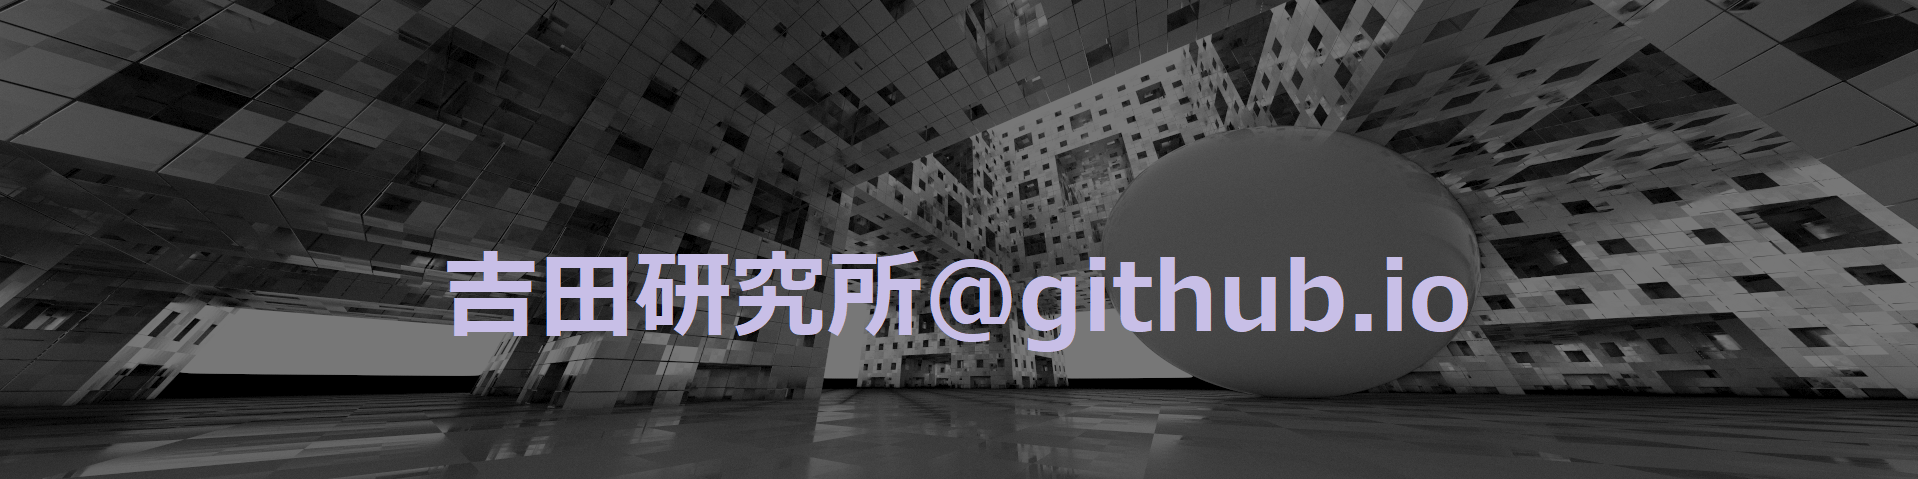
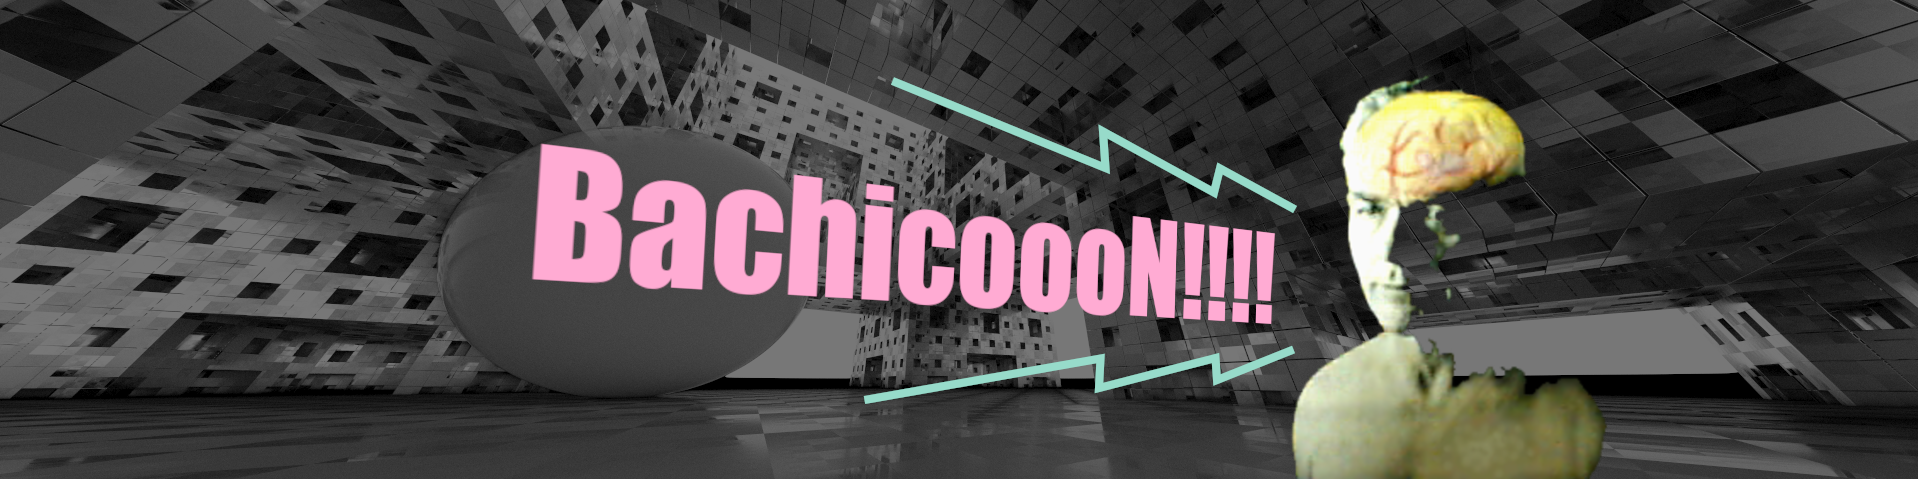
.

diff --git a/index.html b/index.html
@@ -3,29 +3,31 @@
 
 <html xmlns="http://www.w3.org/1999/xhtml" xml:lang="ja" lang="ja">
 	<head prefix="og: http://ogp.me/ns# fb: http://ogp.me/ns/fb# article: http://ogp.me/ns/article#">
+		<meta name="viewport" content="width=device-width,initial-scale=1"/>
+		<meta http-equiv="Content-Type" content="text/html; charset=utf-8"/>
+		<title>
+			BachicoooN!!!!
+		</title>
+		<link rel="stylesheet" type="text/css" href="style.css"/>
+
 		<!-- OGP -->
-		<meta property="og:title" content="吉田研究所@github.io"/>
+		<meta property="og:title" content="BachicoooN!!!!"/>
 		<meta property="og:image" content="https://yosshin4004.github.io/title.png"/>
-		<meta property="og:description" content="ファミベのよっしんの個人サイト"/>
+		<meta property="og:site_name" content="BachicooooN!!!!" />
 
 		<!-- OGP for twitter -->
 		<meta name="twitter:card" content="summary"/>
 		<meta name="twitter:site" content="@yosshin4004"/>
-
-		<meta name="viewport" content="width=device-width,initial-scale=1"/>
-		<meta http-equiv="Content-Type" content="text/html; charset=utf-8"/>
-		<title>
-			吉田研究所@github.io
-		</title>
-		<link rel="stylesheet" type="text/css" href="style.css"/>
 	</head>
 
 	<body>
         <div class="main">
 			<center>
 				<br/>
-				<img src="title.png" alt="TITLE" border="0" width="90%" height="90%"/>
-				<br/><br/>
+				<img src="title.png" alt="TITLE" border="0" width="100%" height="100%"/>
+				<br/>
+				バチコ バチコォ ズバチコォォォォン!!!!
+				<br/>
 				<b>
 					Since 1998/02/23
 				</b>

diff --git a/famibe/my_prods/index.html b/famibe/my_prods/index.html
@@ -14,7 +14,7 @@
 		<!-- OGP -->
 		<meta property="og:title" content="ファミリーベーシック上で過去にリリースしたゲーム"/>
 		<meta property="og:image" content="https://yosshin4004.github.io/title.png"/>
-		<meta property="og:site_name" content="吉田研究所@github.io"/>
+		<meta property="og:site_name" content="BachicoooN!!!!" />
 
 		<!-- OGP for twitter -->
 		<meta name="twitter:card" content="summary"/>

diff --git a/memo/serial_handle/index.html b/memo/serial_handle/index.html
@@ -14,7 +14,7 @@
 		<!-- OGP -->
 		<meta property="og:title" content="シリアルハンドルによる不正メモリアクセス回避"/>
 		<meta property="og:image" content="https://yosshin4004.github.io/title.png"/>
-		<meta property="og:site_name" content="吉田研究所@github.io"/>
+		<meta property="og:site_name" content="BachicoooN!!!!" />
 
 		<!-- OGP for twitter -->
 		<meta name="twitter:card" content="summary"/>

diff --git a/famibe/overview/index.html b/famibe/overview/index.html
@@ -14,7 +14,7 @@
 		<!-- OGP -->
 		<meta property="og:title" content="ファミリーベーシックと80年代当時の状況まとめ"/>
 		<meta property="og:image" content="https://yosshin4004.github.io/title.png"/>
-		<meta property="og:site_name" content="吉田研究所@github.io"/>
+		<meta property="og:site_name" content="BachicoooN!!!!" />
 
 		<!-- OGP for twitter -->
 		<meta name="twitter:card" content="summary"/>

diff --git a/memo/shader_math/index.html b/memo/shader_math/index.html
@@ -14,7 +14,7 @@
 		<!-- OGP -->
 		<meta property="og:title" content="シェーダ言語ライクなベクトル演算の C++ 実装"/>
 		<meta property="og:image" content="https://yosshin4004.github.io/title.png"/>
-		<meta property="og:site_name" content="吉田研究所@github.io"/>
+		<meta property="og:site_name" content="BachicoooN!!!!" />
 
 		<!-- OGP for twitter -->
 		<meta name="twitter:card" content="summary"/>

diff --git a/mod/formats/index.html b/mod/formats/index.html
@@ -14,7 +14,7 @@
 		<!-- OGP -->
 		<meta property="og:title" content="MOD/S3M/XM/IT 各形式のフォーマットについて"/>
 		<meta property="og:image" content="https://yosshin4004.github.io/title.png"/>
-		<meta property="og:site_name" content="吉田研究所@github.io"/>
+		<meta property="og:site_name" content="BachicoooN!!!!" />
 
 		<!-- OGP for twitter -->
 		<meta name="twitter:card" content="summary"/>

diff --git a/famibe/develop/index.html b/famibe/develop/index.html
@@ -14,7 +14,7 @@
 		<!-- OGP -->
 		<meta property="og:title" content="ファミリーベーシック上でのゲーム制作"/>
 		<meta property="og:image" content="https://yosshin4004.github.io/title.png"/>
-		<meta property="og:site_name" content="吉田研究所@github.io"/>
+		<meta property="og:site_name" content="BachicoooN!!!!" />
 
 		<!-- OGP for twitter -->
 		<meta name="twitter:card" content="summary"/>

diff --git a/mod/overview/index.html b/mod/overview/index.html
@@ -14,7 +14,7 @@
 		<!-- OGP -->
 		<meta property="og:title" content="ミュージックフォーマット MOD について"/>
 		<meta property="og:image" content="https://yosshin4004.github.io/title.png"/>
-		<meta property="og:site_name" content="吉田研究所@github.io"/>
+		<meta property="og:site_name" content="BachicoooN!!!!" />
 
 		<!-- OGP for twitter -->
 		<meta name="twitter:card" content="summary"/>

diff --git a/memo/software_sprite/index.html b/memo/software_sprite/index.html
@@ -14,7 +14,7 @@
 		<!-- OGP -->
 		<meta property="og:title" content="高速なソフトウェアスプライトの実装"/>
 		<meta property="og:image" content="https://yosshin4004.github.io/title.png"/>
-		<meta property="og:site_name" content="吉田研究所@github.io"/>
+		<meta property="og:site_name" content="BachicoooN!!!!" />
 
 		<!-- OGP for twitter -->
 		<meta name="twitter:card" content="summary"/>

diff --git a/mod/ft2/index.html b/mod/ft2/index.html
@@ -14,7 +14,7 @@
 		<!-- OGP -->
 		<meta property="og:title" content="Fast Tracker II の日本語ドキュメント"/>
 		<meta property="og:image" content="https://yosshin4004.github.io/title.png"/>
-		<meta property="og:site_name" content="吉田研究所@github.io"/>
+		<meta property="og:site_name" content="BachicoooN!!!!" />
 
 		<!-- OGP for twitter -->
 		<meta name="twitter:card" content="summary"/>

diff --git a/demoscene/japanese_scene/index.html b/demoscene/japanese_scene/index.html
@@ -14,7 +14,7 @@
 		<!-- OGP -->
 		<meta property="og:title" content="デモシーン発生以前の日本の状況"/>
 		<meta property="og:image" content="https://yosshin4004.github.io/title.png"/>
-		<meta property="og:site_name" content="吉田研究所@github.io"/>
+		<meta property="og:site_name" content="BachicoooN!!!!" />
 
 		<!-- OGP for twitter -->
 		<meta name="twitter:card" content="summary"/>

diff --git a/mod/commands/index.html b/mod/commands/index.html
@@ -14,7 +14,7 @@
 		<!-- OGP -->
 		<meta property="og:title" content="MOD/S3M/XM/IT 各形式のコマンド詳細"/>
 		<meta property="og:image" content="https://yosshin4004.github.io/title.png"/>
-		<meta property="og:site_name" content="吉田研究所@github.io"/>
+		<meta property="og:site_name" content="BachicoooN!!!!" />
 
 		<!-- OGP for twitter -->
 		<meta name="twitter:card" content="summary"/>
